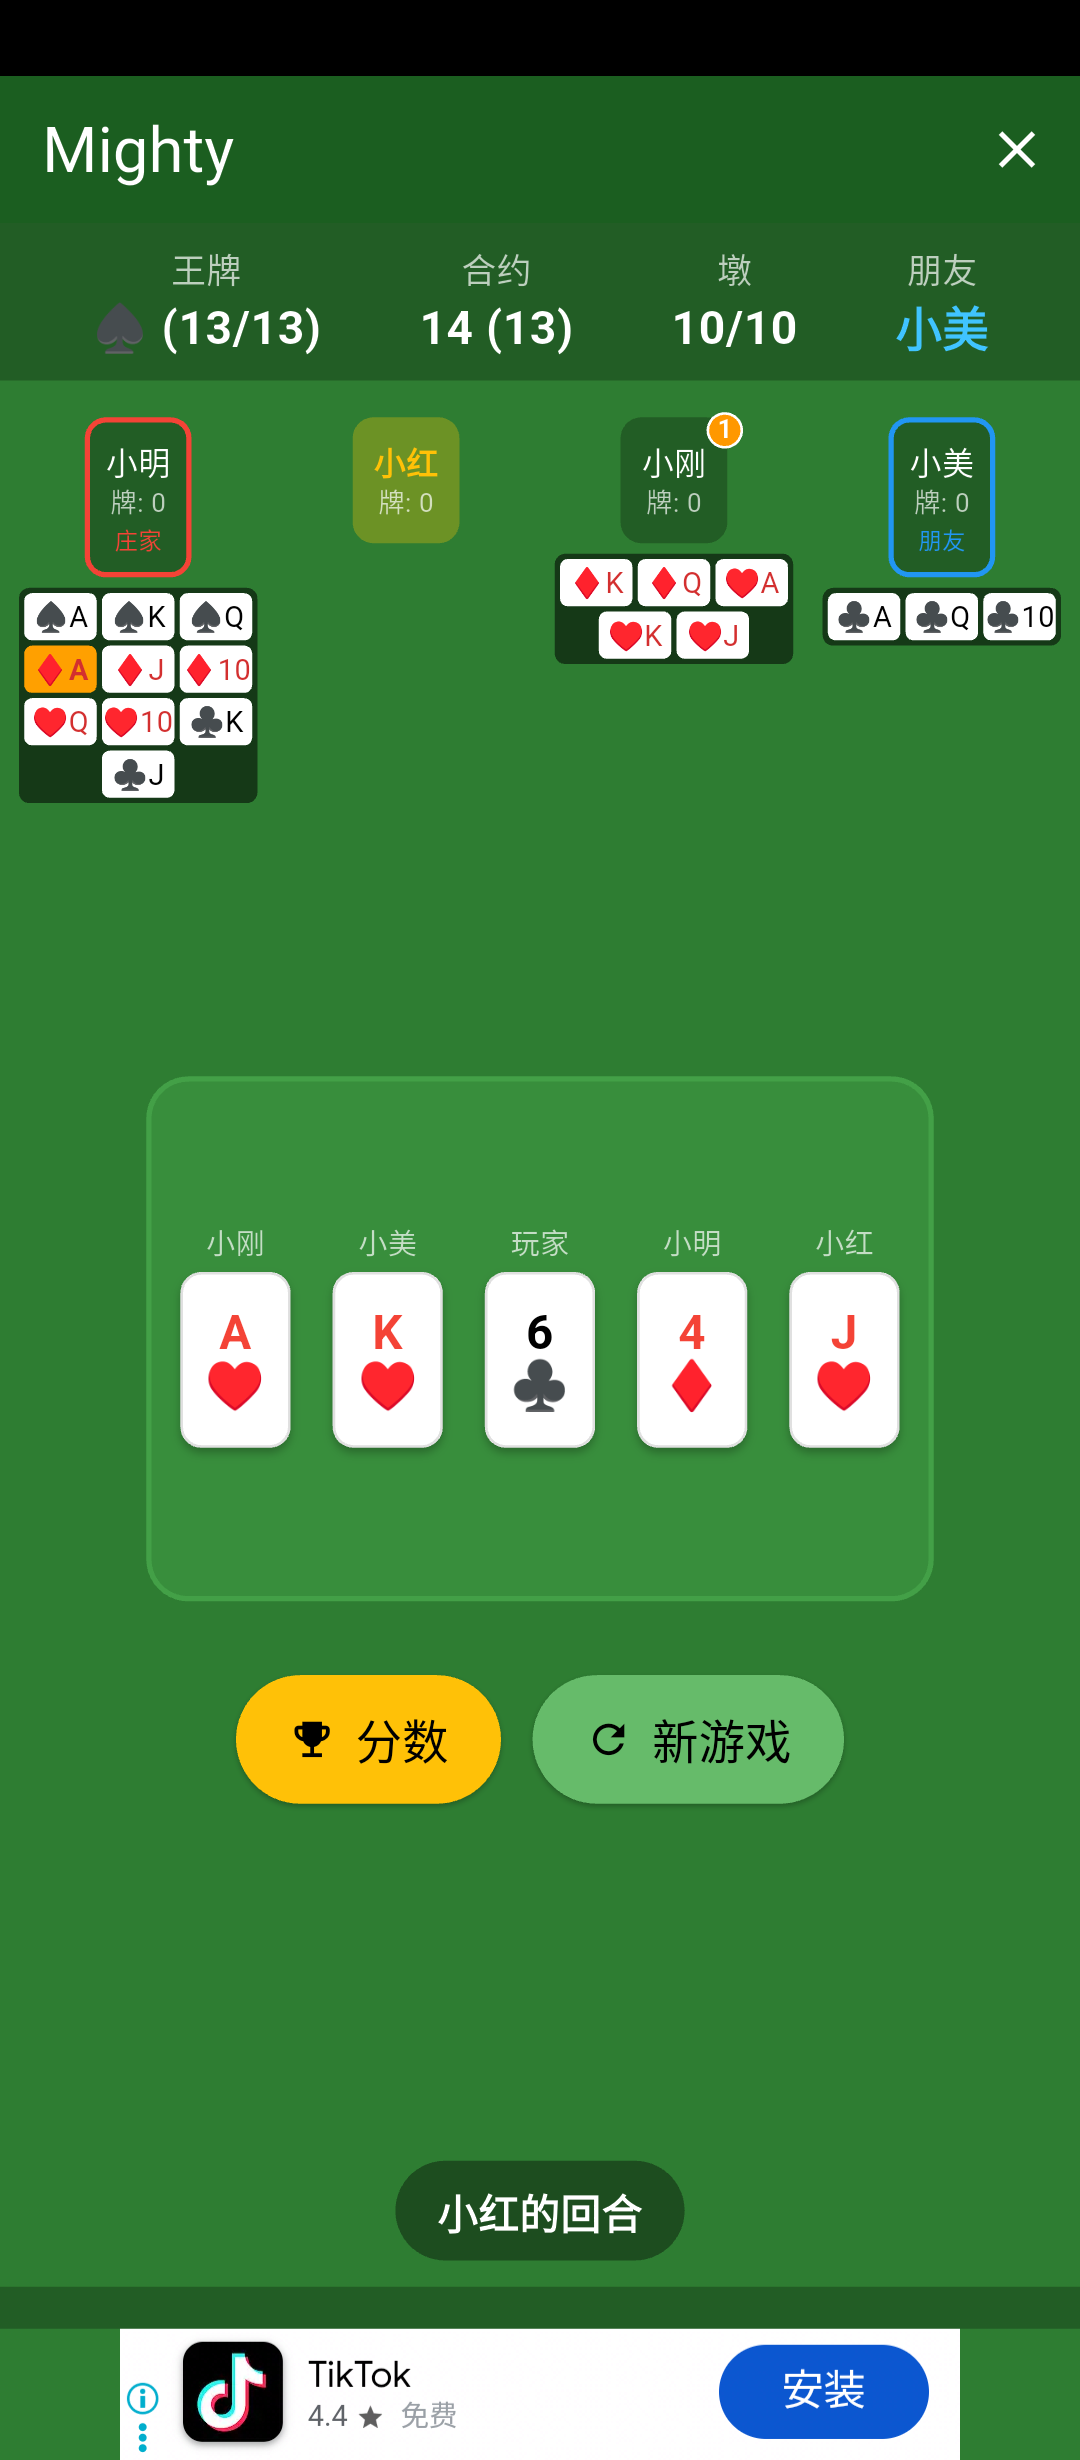
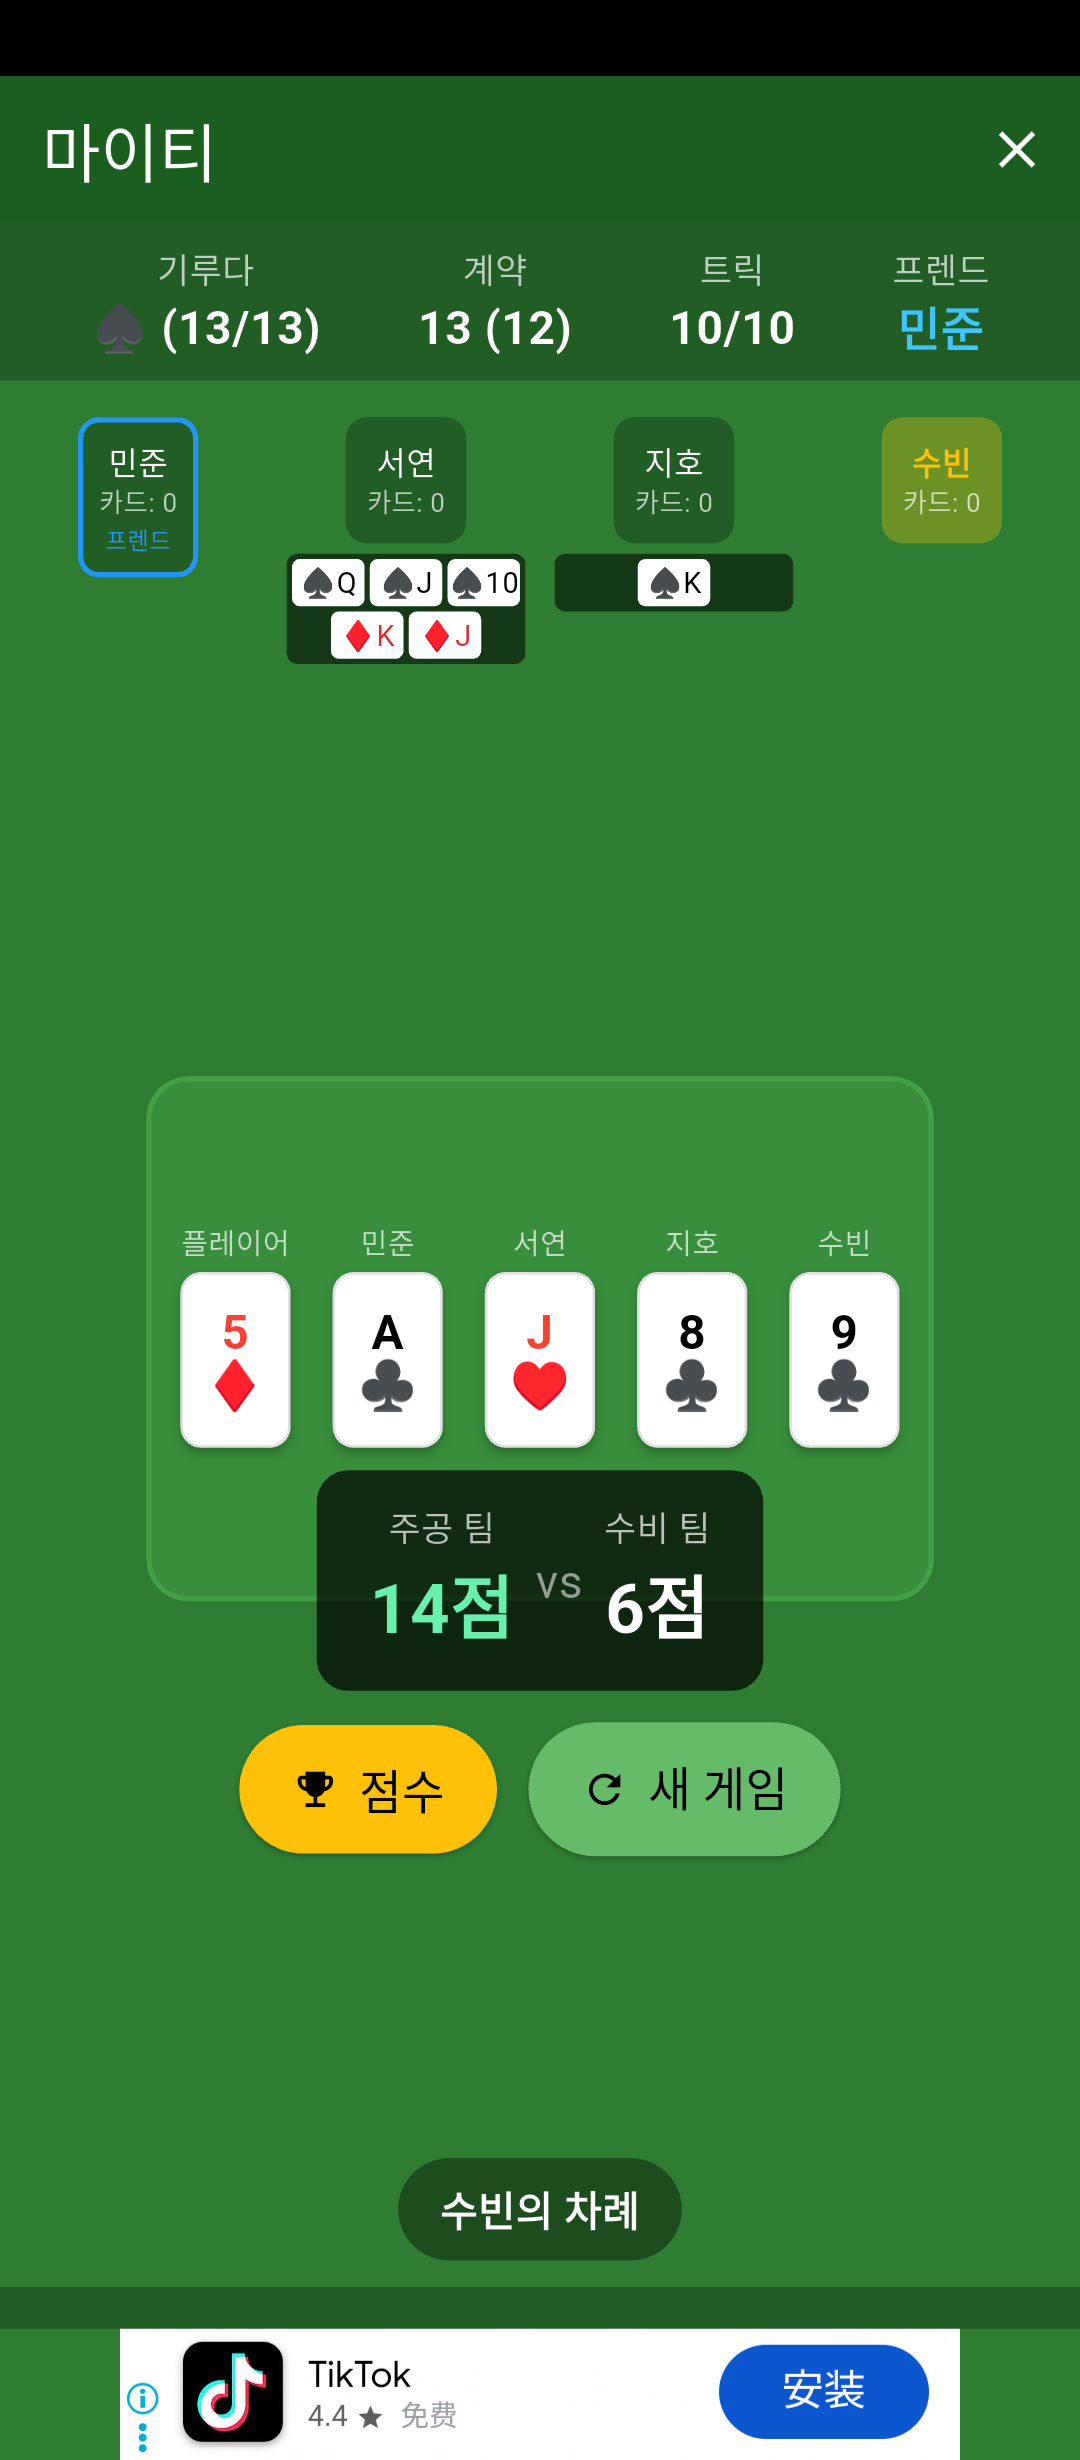
Show player won cards and kitty at game end
- Player's won cards now displayed at game end (not just during play)
- Added kitty (discarded cards) display below team scores
- Makes it easier to review the final game state

🤖 Generated with [Claude Code](https://claude.com/claude-code)

diff --git a/lib/screens/game_screen.dart b/lib/screens/game_screen.dart
@@ -1004,62 +1004,88 @@ class _GameScreenState extends State<GameScreen> {
                       color: Colors.black.withValues(alpha: 0.7),
                       borderRadius: BorderRadius.circular(12),
                     ),
-                    child: Row(
+                    child: Column(
                       mainAxisSize: MainAxisSize.min,
                       children: [
-                        // 주공팀 점수
-                        Column(
+                        Row(
+                          mainAxisSize: MainAxisSize.min,
                           children: [
-                            Text(
-                              l10n.declarerTeam,
-                              style: const TextStyle(
-                                color: Colors.white70,
-                                fontSize: 12,
+                            // 주공팀 점수
+                            Column(
+                              children: [
+                                Text(
+                                  l10n.declarerTeam,
+                                  style: const TextStyle(
+                                    color: Colors.white70,
+                                    fontSize: 12,
+                                  ),
+                                ),
+                                Text(
+                                  state.declarerTeamPoints == 20
+                                      ? l10n.fullPoints
+                                      : '${state.declarerTeamPoints}${l10n.points(0).replaceAll('0', '').trim()}',
+                                  style: TextStyle(
+                                    color: state.declarerWon ? Colors.greenAccent : Colors.white,
+                                    fontSize: 24,
+                                    fontWeight: FontWeight.bold,
+                                  ),
+                                ),
+                              ],
+                            ),
+                            const SizedBox(width: 8),
+                            const Text(
+                              'vs',
+                              style: TextStyle(
+                                color: Colors.white54,
+                                fontSize: 16,
                               ),
                             ),
-                            Text(
-                              state.declarerTeamPoints == 20
-                                  ? l10n.fullPoints
-                                  : '${state.declarerTeamPoints}${l10n.points(0).replaceAll('0', '').trim()}',
-                              style: TextStyle(
-                                color: state.declarerWon ? Colors.greenAccent : Colors.white,
-                                fontSize: 24,
-                                fontWeight: FontWeight.bold,
-                              ),
+                            const SizedBox(width: 8),
+                            // 수비팀 점수
+                            Column(
+                              children: [
+                                Text(
+                                  l10n.defenderTeam,
+                                  style: const TextStyle(
+                                    color: Colors.white70,
+                                    fontSize: 12,
+                                  ),
+                                ),
+                                Text(
+                                  state.defenderTeamPoints == 20
+                                      ? l10n.fullPoints
+                                      : '${state.defenderTeamPoints}${l10n.points(0).replaceAll('0', '').trim()}',
+                                  style: TextStyle(
+                                    color: !state.declarerWon ? Colors.redAccent : Colors.white,
+                                    fontSize: 24,
+                                    fontWeight: FontWeight.bold,
+                                  ),
+                                ),
+                              ],
                             ),
                           ],
                         ),
-                        const SizedBox(width: 8),
-                        const Text(
-                          'vs',
-                          style: TextStyle(
-                            color: Colors.white54,
-                            fontSize: 16,
+                        // 버린 카드 (키티) 표시
+                        if (state.kitty.isNotEmpty) ...[
+                          const SizedBox(height: 8),
+                          Row(
+                            mainAxisSize: MainAxisSize.min,
+                            children: [
+                              Text(
+                                l10n.discardCards,
+                                style: const TextStyle(
+                                  color: Colors.white70,
+                                  fontSize: 11,
+                                ),
+                              ),
+                              const SizedBox(width: 6),
+                              ...state.kitty.map((card) => Padding(
+                                padding: const EdgeInsets.only(right: 3),
+                                child: _buildTinyCard(card, state),
+                              )),
+                            ],
                           ),
-                        ),
-                        const SizedBox(width: 8),
-                        // 수비팀 점수
-                        Column(
-                          children: [
-                            Text(
-                              l10n.defenderTeam,
-                              style: const TextStyle(
-                                color: Colors.white70,
-                                fontSize: 12,
-                              ),
-                            ),
-                            Text(
-                              state.defenderTeamPoints == 20
-                                  ? l10n.fullPoints
-                                  : '${state.defenderTeamPoints}${l10n.points(0).replaceAll('0', '').trim()}',
-                              style: TextStyle(
-                                color: !state.declarerWon ? Colors.redAccent : Colors.white,
-                                fontSize: 24,
-                                fontWeight: FontWeight.bold,
-                              ),
-                            ),
-                          ],
-                        ),
+                        ],
                       ],
                     ),
                   ),
@@ -2015,8 +2041,8 @@ class _GameScreenState extends State<GameScreen> {
                     ],
                   ),
                 ),
-              // 획득한 점수 카드 (스크롤 가능)
-              if (pointCards.isNotEmpty && controller.state.phase == GamePhase.playing)
+              // 획득한 점수 카드 (스크롤 가능) - 플레이 중 또는 게임 종료 시 표시
+              if (pointCards.isNotEmpty && (controller.state.phase == GamePhase.playing || controller.state.phase == GamePhase.gameEnd))
                 Expanded(
                   child: Container(
                     padding: const EdgeInsets.symmetric(horizontal: 6, vertical: 2),
